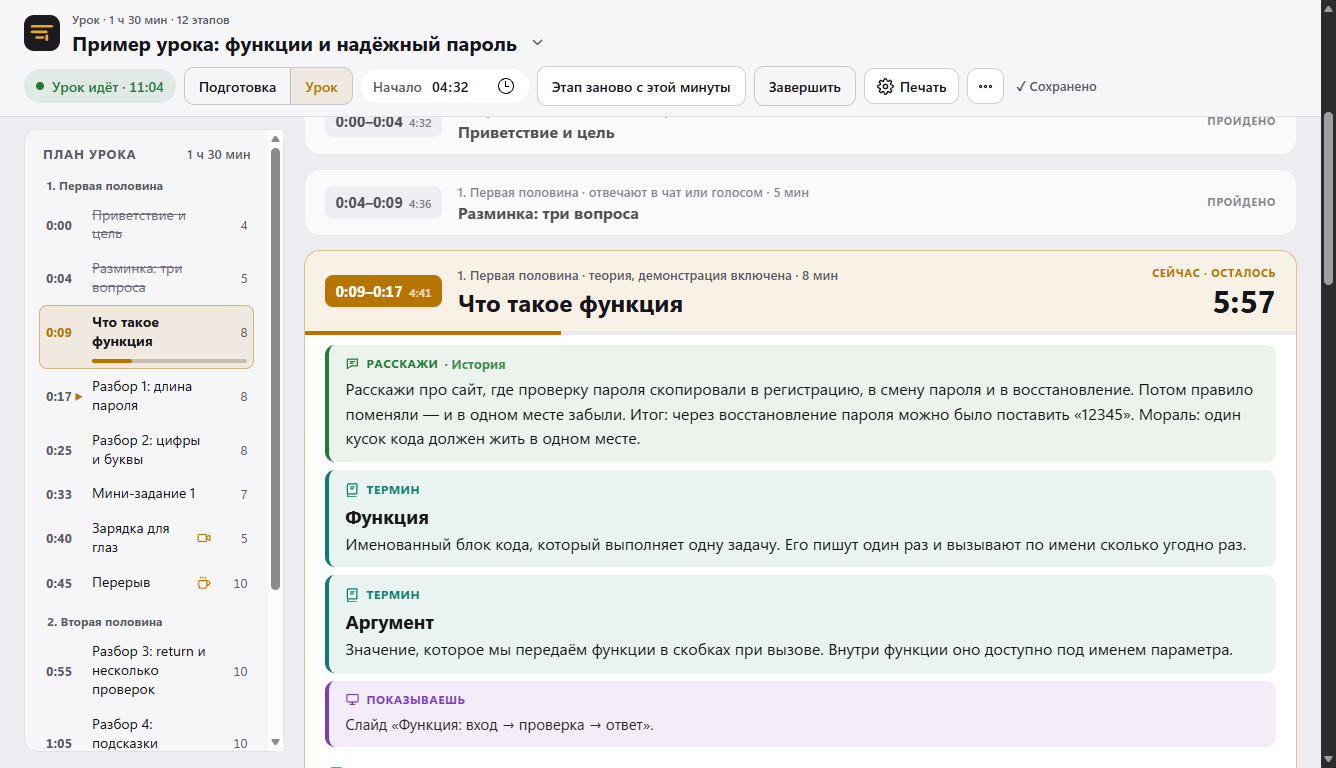
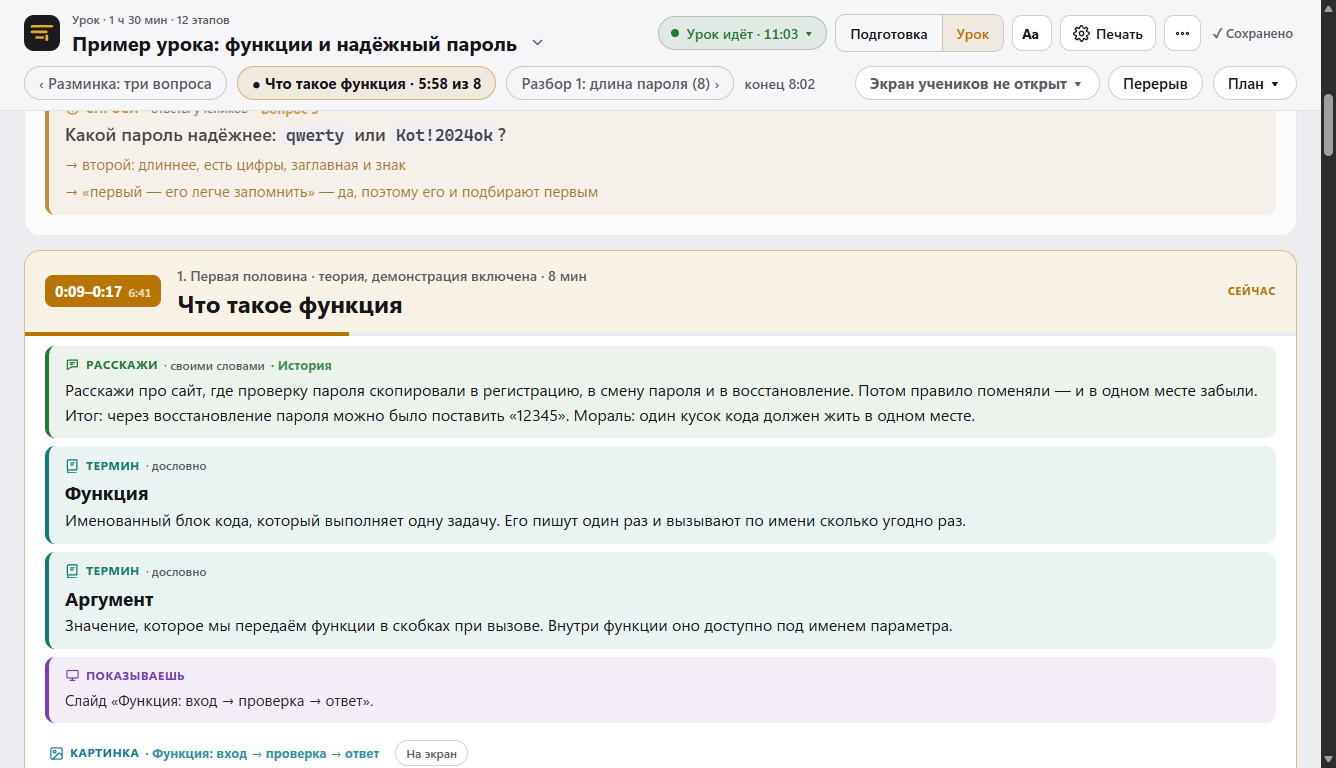
0.11: шапка «Урока» в две строки — «Начало / Начать этот этап сейчас / Завершить» в меню «Урок идёт ▾», «Начать урок» + «в… ▾»; экран учеников и «Перерыв» — во второй строке рядом с планом; «осталось» не повторяется на карточке, когда план строкой; новые снимки (правка как в Word, палитра по группам

diff --git a/autoprint/efir/page/lesson/app.js b/autoprint/efir/page/lesson/app.js
@@ -294,7 +294,77 @@ function mayReplace() {
   return !other || confirm("Сейчас идёт эфир «" + other + "». Завершить его и начать урок?");
 }
 
+// идёт урок: «Урок идёт · 11:02 ▾» — начало, «Начать этот этап сейчас», «Завершить»
+function liveMenu(anchor) {
+  const box = el("div", "pmenu");
+  box.appendChild(el("div", "mhead", "Идёт урок"));
+  const row = el("label", "zrow");
+  row.appendChild(el("span", "", "Начало"));
+  const tm = el("input");
+  tm.type = "time";
+  tm.className = "tmin";
+  tm.value = hhmm(A.S.live.anchor);
+  tm.title = "Начало идущего урока: наберите время и нажмите Enter — время этапов сдвинется (Esc — отмена)";
+  const was = tm.value;
+  const commit = () => { if (tm.value && tm.value !== was) cmd({ cmd: "set_start", start: tm.value }); };
+  tm.addEventListener("keydown", (e) => {
+    if (e.key === "Enter") { e.preventDefault(); commit(); closeMenu(); } else if (e.key === "Escape") { tm.value = was; closeMenu(); }
+  });
+  tm.addEventListener("change", commit);
+  row.appendChild(tm);
+  box.appendChild(row);
+  menu(anchor, [{ node: box },
+    { label: "Начать этот этап сейчас", hint: "текущий этап — с этой минуты, следующие сдвигаются", on: () => cmd({ cmd: "shift_now" }) },
+    { label: "Мини-таймер «Эфира»", hint: "окно поверх всех", on: () => cmd({ cmd: "timer" }) },
+    { sep: true },
+    { label: "Завершить урок…", danger: true, on: () => { if (confirm("Завершить урок? Таймер «Эфира» закроется.")) cmd({ cmd: "stop" }); } },
+  ], { focus: false });
+}
+
+function startAtMenu(anchor) {
+  const L = A.S.lesson;
+  const box = el("div", "pmenu");
+  box.appendChild(el("div", "mhead", "Начать урок в"));
+  const row = el("div", "zrow");
+  const tm = el("input");
+  tm.type = "time";
+  tm.className = "tmin";
+  tm.value = (L && L.start) || nextHalfHour();
+  const go = el("button", "primary", "Начать");
+  go.onclick = () => { if (tm.value && mayReplace()) { closeMenu(); cmd({ cmd: "start", at: tm.value, force: !!A.S.other_live }); } };
+  tm.addEventListener("keydown", (e) => { if (e.key === "Enter") { e.preventDefault(); go.click(); } });
+  row.appendChild(tm);
+  row.appendChild(go);
+  box.appendChild(row);
+  box.appendChild(el("div", "phelp", "До начала таймер считает «до начала». Время из прошлого (в пределах 6 часов) — урок уже идёт."));
+  menu(anchor, [{ node: box }], { focus: false });
+  tm.focus();
+}
+
 // ---------------------------------------------------------------- экран учеников
+function renderScreenCtl() {
+  stripEl();
+  const box = $("strip").querySelector(".screen");
+  box.innerHTML = "";
+  const ef = (A.S && A.S.efir) || {};
+  const sc = el("button", "chip scrchip");
+  sc.title = "Экран учеников: что у них сейчас и что показать";
+  sc.onclick = () => screenMenu(sc);
+  box.appendChild(sc);
+  if (ef.mode && ef.mode !== "idle") {
+    const back = el("button", "", "Вернуть фон");
+    back.title = "Ученикам — снова фон (B)";
+    back.onclick = () => cmd({ cmd: "background" });
+    box.appendChild(back);
+  } else {
+    const br = el("button", "", "Перерыв");
+    br.title = "Перерыв ученикам — по плану урока (другие минуты — в «У учеников ▾»)";
+    br.onclick = () => cmd({ cmd: "break", stage: currentBreakStage() });
+    box.appendChild(br);
+  }
+  screenChip();
+}
+
 function currentBreakStage() {
   const { cur, stages } = computeCurrent();
   const s = cur >= 0 ? stages[cur] : null;
@@ -314,7 +384,7 @@ function screenText() {
 }
 
 function screenChip() {
-  const c = document.querySelector("#tools .scrchip");
+  const c = document.querySelector("#strip .scrchip");
   if (!c) return;
   const [text, cls] = screenText();
   if (c.textContent !== text) c.textContent = text;
@@ -437,8 +507,9 @@ export function renderTools() {
   if (!L) return;
   const P = A.S.print || {};
   const stages = stagesOf(A.items);
-  const status = chip("", "");
+  const status = el("button", "chip");
   status.id = "status";
+  status.onclick = () => { if (A.S && A.S.live && A.mode === "lesson") liveMenu(status); };
   t.appendChild(status);
   if (BUSY.includes(P.state)) {
     const it = A.byId.get(P.block);
@@ -456,68 +527,17 @@ export function renderTools() {
     seg.appendChild(b);
   }
   t.appendChild(seg);
-  if (A.mode === "lesson") {
-    // экран учеников — отсюда: что у них сейчас, перерыв, фон (окно таймера «Эфира» не нужно)
-    const ef = A.S.efir || {};
-    const sc = el("button", "chip scrchip");
-    sc.title = "Экран учеников: что у них сейчас и что показать";
-    sc.onclick = () => screenMenu(sc);
-    t.appendChild(sc);
-    if (ef.mode && ef.mode !== "idle") {
-      const back = el("button", "", "Вернуть фон");
-      back.title = "Ученикам — снова фон (B)";
-      back.onclick = () => cmd({ cmd: "background" });
-      t.appendChild(back);
-    } else {
-      const br = el("button", "", "Перерыв");
-      br.title = "Перерыв ученикам — по плану урока (другие минуты — в «У учеников ▾»)";
-      br.onclick = () => cmd({ cmd: "break", stage: currentBreakStage() });
-      t.appendChild(br);
-    }
-    screenChip();
-  }
-  if (A.mode === "lesson" && stages.length) {
-    if (!A.S.live) {
-      const go = el("button", "primary", "Начать урок");
-      go.title = "Урок начинается с этой минуты: этапы пойдут по часам";
-      go.onclick = () => { if (mayReplace()) cmd({ cmd: "start", force: !!A.S.other_live }); };
-      t.appendChild(go);
-      const atBox = el("label", "chip");
-      atBox.title = "Начать урок в это время: до начала таймер считает «до начала»";
-      atBox.appendChild(document.createTextNode("или в"));
-      const tm = el("input");
-      tm.type = "time";
-      tm.value = (L.start || nextHalfHour());
-      tm.className = "tm";
-      atBox.appendChild(tm);
-      t.appendChild(atBox);
-      const at = el("button", "", "Начать в это время");
-      at.onclick = () => { if (tm.value && mayReplace()) cmd({ cmd: "start", at: tm.value, force: !!A.S.other_live }); };
-      t.appendChild(at);
-    } else {
-      const startBox = el("label", "chip");
-      startBox.title = "Начало идущего урока: наберите время и нажмите Enter — время этапов сдвинется (Esc — отмена)";
-      startBox.appendChild(document.createTextNode("Начало"));
-      const tm = el("input");
-      tm.type = "time";
-      tm.className = "tm";
-      tm.value = hhmm(A.S.live.anchor);
-      const was = tm.value;
-      const commit = () => { if (tm.value && tm.value !== was) cmd({ cmd: "set_start", start: tm.value }); };
-      tm.addEventListener("keydown", (e) => {
-        if (e.key === "Enter") { e.preventDefault(); tm.blur(); } else if (e.key === "Escape") { tm.value = was; tm.blur(); }
-      });
-      tm.addEventListener("blur", commit);
-      startBox.appendChild(tm);
-      t.appendChild(startBox);
-      const shift = el("button", "", "Начать этот этап сейчас");
-      shift.title = "Текущий этап начинается сейчас, следующие сдвигаются";
-      shift.onclick = () => cmd({ cmd: "shift_now" });
-      t.appendChild(shift);
-      const stop = el("button", "ghost", "Завершить");
-      stop.onclick = () => { if (confirm("Завершить урок? Таймер «Эфира» закроется.")) cmd({ cmd: "stop" }); };
-      t.appendChild(stop);
-    }
+  if (A.mode === "lesson") renderScreenCtl();       // экран учеников — во второй строке, рядом с планом
+  if (A.mode === "lesson" && stages.length && !A.S.live) {
+    const go = el("button", "primary", "Начать урок");
+    go.title = "Урок начинается с этой минуты: этапы пойдут по часам";
+    go.onclick = () => { if (mayReplace()) cmd({ cmd: "start", force: !!A.S.other_live }); };
+    t.appendChild(go);
+    const at = el("button", "", "в… ▾");
+    at.title = "Начать урок в назначенное время: до начала таймер считает «до начала»";
+    at.setAttribute("aria-label", "Начать урок в назначенное время");
+    at.onclick = () => startAtMenu(at);
+    t.appendChild(at);
   }
   const zb = el("button", "iconbtn only prefsbtn", "Аа");
   zb.title = "Мои настройки: размер текста, план, этапы";
@@ -635,10 +655,11 @@ function stripEl() {
 
 function renderStrip(elapsed, cur, stages) {
   const s = $("strip");
-  s.hidden = !stages.length;
-  if (!stages.length) return;
+  s.hidden = false;                       // вторая строка «Урока»: план (по настройке) и экран учеников
   stripEl();
   const [pb, cb, nb, end] = ["prev", "cur", "next", "end"].map((c) => s.querySelector("." + c));
+  s.classList.toggle("noplan", !stages.length);
+  if (!stages.length) return;
   const set = (e, text, id) => {
     if (e.textContent !== text) e.textContent = text;
     e.hidden = !text;
@@ -735,7 +756,7 @@ function tick() {
     if (!lbl) continue;
     if (ph === "current") {
       const left = (s.end - elapsed) * 60;
-      const timer = prefs().page_stage_timer !== false;
+      const timer = prefs().page_stage_timer !== false && !document.body.classList.contains("plan-strip");
       lbl.textContent = !timer ? "Сейчас" : ending ? "Осталось меньше минуты" : "Сейчас · осталось";
       big.textContent = timer ? mmss(left) : "";
       const frac = Math.min(1, Math.max(0, (elapsed - s.start) / (s.end - s.start)));
@@ -770,7 +791,7 @@ function tick() {
   } else {
     status.className = "chip ok";
     status.innerHTML = '<span class="dot"></span>';
-    status.appendChild(document.createTextNode("Урок идёт · " + mmss(elapsed * 60)));
+    status.appendChild(document.createTextNode("Урок идёт · " + mmss(elapsed * 60) + (A.mode === "lesson" ? " ▾" : "")));
   }
 }
 setInterval(tick, 1000);

diff --git a/autoprint/efir/page/lesson.html b/autoprint/efir/page/lesson.html
@@ -404,13 +404,19 @@ input.inl-h1 { font: 800 20px/1.25 var(--ui); width: min(32em, 60vw); }
 
 /* ---------------- план строкой (в «Уроке») */
 #strip { flex: 1 1 100%; display: none; align-items: center; gap: 6px 10px; flex-wrap: wrap; min-width: 0; }
-body.mode-lesson.plan-strip #strip { display: flex; }
+body.mode-lesson #strip { display: flex; }
+body.mode-lesson:not(.plan-strip) #strip :is(.prev, .cur, .next, .end, .more), #strip.noplan :is(.prev, .cur, .next, .end, .more) { display: none !important; }
+#strip .screen { margin-left: auto; display: flex; align-items: center; gap: 8px; flex-wrap: wrap; }
+#status { cursor: default; }
+body.mode-lesson #status.ok { cursor: pointer; }
+.tmin { font: 600 15px var(--ui); color: var(--text); background: var(--card); border: 1px solid var(--stroke2); border-radius: 8px;
+  padding: 4px 8px; }
 #strip button { min-height: 34px; padding: 0 14px; border-radius: 999px; font-size: 15px; }
 #strip .prev, #strip .next { background: transparent; color: var(--dim); }
 #strip .cur { background: var(--accent-soft); border-color: var(--accent-line); font-weight: 800; color: var(--text);
   font-variant-numeric: tabular-nums; }
 #strip .end { color: var(--dim); font-size: 14px; font-weight: 600; font-variant-numeric: tabular-nums; }
-#strip .more { margin-left: auto; }
+#strip .more { margin-left: 0; }
 body.mode-lesson.plan-strip nav#plan, body.mode-lesson.plan-hidden nav#plan { display: none; }
 body.mode-lesson.plan-strip.plan-open nav#plan { display: block; position: fixed; top: calc(var(--hh, 64px) + 8px); left: 24px;
   width: min(340px, 90vw); max-height: calc(100vh - var(--hh, 64px) - 24px); z-index: 40; box-shadow: var(--shadow); }

diff --git a/tools/make_readme_shots.py b/tools/make_readme_shots.py
@@ -51,6 +51,7 @@ def main() -> int:
     s.samples_seen = ["steps_v1", "tour_v1", "lesson_v1", "lesson_v2", "lesson_v3"]
     s.migrations = ["tray_v1", "window_v10", "roles_v10", "samples_v10"]
     s.update_auto_check = False
+    s.start_timer = True              # для снимка таймера: «Начать урок» открывает и мини-таймер
     win = MainWindow(s, store)
     win.resize(520, 480)
     win.show()
@@ -89,12 +90,35 @@ def main() -> int:
             e.eval(f"document.querySelector('.seg.modes button:{'first' if m == 'prep' else 'last'}-child').click()")
             pump(400)
 
-        # Подготовка: заметки и код рядом, правка на месте
+        def shot_menu(name: str) -> bool:
+            # clip снимка — в координатах документа, а getBoundingClientRect — окна: прибавить прокрутку
+            pump(300)
+            r = e.eval("(() => { const m = document.querySelector('.menu'); if (!m) return null; const r = m.getBoundingClientRect();"
+                       " return {x: r.left + scrollX, y: r.top + scrollY, w: r.width, h: r.height}; })()")
+            if not r or not r["h"]:
+                print("меню не открылось:", name)
+                return False
+            shot(name, {"x": max(0, r["x"] - 16), "y": max(0, r["y"] - 16), "width": r["w"] + 32, "height": r["h"] + 32})
+            e.eval("document.body.dispatchEvent(new MouseEvent('mousedown', {bubbles: true}))")
+            pump(200)
+            return True
+
+        # Подготовка: правка заметки «как в Word» — панель Ж / К / списки, разметки не видно
         mode("prep")
-        y = e.eval("(() => { const b = [...document.querySelectorAll('.blk[data-type=code]')][1];"
-                   " return b.getBoundingClientRect().top + scrollY - 330; })()")
-        e.eval(f"window.scrollTo(0, {int(y)})")
+        e.eval("(() => { const b = [...document.querySelectorAll('.blk[data-type=markdown]')].find(x => x.querySelector('.r-tell'));"
+               " window.scrollTo(0, b.getBoundingClientRect().top + scrollY - 260); b.querySelector('.row > .c').click(); })()")
         shot("lesson-prep.png")
+        e.eval("document.activeElement && document.activeElement.blur()")
+        pump(300)
+        # палитра «+» по группам и «Мои настройки»
+        e.eval("(() => { const i = [...document.querySelectorAll('.ins .insbtn')][3]; i.scrollIntoView({block: 'center'}); i.click(); })()")
+        if not shot_menu("palette.png"):
+            return 1
+        window_top = "window.scrollTo(0, 0)"
+        e.eval(window_top)
+        e.eval("document.querySelector('#tools .prefsbtn').click()")
+        if not shot_menu("prefs.png"):
+            return 1
 
         # Урок идёт: третий этап — текущий, пройденные свёрнуты
         win.lesson._start_stage_now(t, 2)

diff --git a/tests/test_page.py b/tests/test_page.py
@@ -541,7 +541,7 @@ class PageV11Test(Page):
             pump(1500)
             self.assertEqual(self.js("document.querySelectorAll('.stage.collapsed').length"), 0)
             self.assertEqual(self.js("scrollY"), y0)
-            self.assertEqual(self.js("document.querySelector('#st-s2 .left .lbl2').textContent"), "Сейчас · осталось")
+            self.assertEqual(self.js("document.querySelector('#st-s2 .left .lbl2').textContent"), "Сейчас")   # время — в строке плана
             self.assertEqual(self.js("document.querySelector('#st-s3 .left .lbl2').textContent"), "")   # без «через»
         finally:
             self.stop_live()
@@ -587,8 +587,8 @@ class PageV11Test(Page):
         opened = []
         ef.open_tab = lambda: opened.append(1)
         self.mode("lesson")
-        chip = "document.querySelector('#tools .scrchip')"
-        btn = "[...document.querySelectorAll('#tools button')].find(b => b.textContent.trim() === '{}')"
+        chip = "document.querySelector('#strip .scrchip')"
+        btn = "[...document.querySelectorAll('header button')].find(b => b.textContent.trim() === '{}')"
         try:
             self.assertTrue(self.edge.wait(f"!!{chip} && {chip}.textContent.includes('Экран учеников не открыт')"))
             self.js(btn.format("Перерыв") + ".click()")
@@ -663,6 +663,9 @@ class PageV11Test(Page):
             self.go_live(6)
             self.assertTrue(self.edge.wait("document.querySelector('#strip .cur') && "
                                            "document.querySelector('#strip .cur').textContent.includes('Разбор')"))
+            self.assertEqual(self.js("getComputedStyle(document.getElementById('strip')).display"), "flex")
+            self.assertGreater(self.js("document.querySelector('#strip .cur').getBoundingClientRect().height"), 0)
+            self.assertGreater(self.js("document.querySelector('#strip .scrchip').getBoundingClientRect().height"), 0)
             self.assertIn("Приветствие", self.js("document.querySelector('#strip .prev').textContent"))
             self.assertIn("Итоги", self.js("document.querySelector('#strip .next').textContent"))
             self.assertIn("конец", self.js("document.querySelector('#strip').textContent"))
@@ -710,7 +713,7 @@ class PageSlidesTest(Page):
         self.js("document.querySelector('[data-id=sl2] .toscreen').click()")
         self.assertTrue(self.wait_py(lambda: self.shown() == "sl2"))
         self.assertTrue(self.edge.wait("!!document.querySelector('.blk.onscreen[data-id=sl2]')"))
-        self.assertTrue(self.edge.wait("document.querySelector('#tools .scrchip').textContent.includes('слайд 2')"))
+        self.assertTrue(self.edge.wait("document.querySelector('#strip .scrchip').textContent.includes('слайд 2')"))
         self.win.efir.show_background()
 
     def test_paste_answer_box(self):
